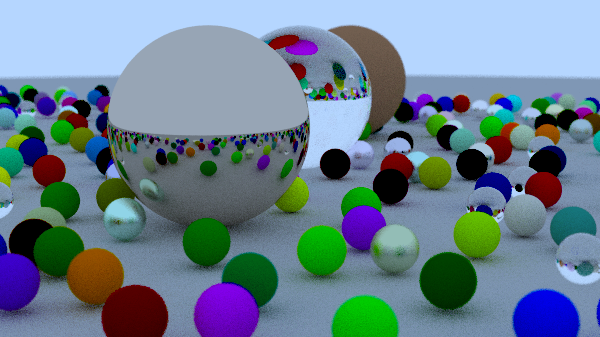
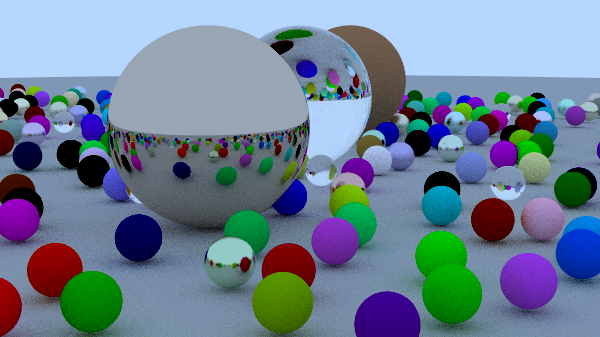
Concurrency using routines

diff --git a/camera/camera.go b/camera/camera.go
@@ -1,14 +1,17 @@
 package camera
 
 import (
+	"fmt"
+	"image"
+	"image/color"
+	"image/png"
 	"math"
+	"os"
 	"ray-tracing/hit"
 	"ray-tracing/ray"
 	"ray-tracing/utils"
 	"ray-tracing/vec"
-	"image"
-    "image/png"
-	"os"
+	"sync"
 )
 
 type Camera struct {
@@ -64,7 +67,7 @@ func (c *Camera) pixel_sample_sq() vec.Vec3 {
 	)
 }
 
-func (c *Camera) Render(world hit.HitList,file string) {
+func (c *Camera) Render(world hit.HitList, file string) {
 	upLeft := image.Point{0, 0}
 	lowRight := image.Point{c.Width, c.Height}
 
@@ -93,11 +96,158 @@ func (c *Camera) Render(world hit.HitList,file string) {
 			}
 
 			color.DivScalar(float64(c.samples_per_pixel))
-			img.Set(i,j,color.ToIntArr())
+			img.Set(i, j, color.ToIntArr())
 		}
 	}
 
-	f, _ := os.Create("out/"+ file + ".png")
+	f, _ := os.Create("out/" + file + ".png")
+	defer f.Close()
+	png.Encode(f, img)
+	print("\rCompleted 100%")
+	println("\nDone")
+}
+
+type PixelCom struct {
+	I, J  int
+	Pixel color.RGBA
+}
+
+func RenderPixel(
+	c *Camera,
+	world *hit.HitList,
+	i, j int,
+	ch chan<- PixelCom,
+	wg *sync.WaitGroup,
+) {
+	defer wg.Done()
+
+	color := vec.New(0, 0, 0)
+	pixel_center := *vec.Add(
+		c.pixel00_loc,
+		*vec.MulScalar(c.pixel_delta_u, float64(i)),
+		*vec.MulScalar(c.pixel_delta_v, float64(j)),
+	)
+	for k := 0; k < c.samples_per_pixel; k++ {
+		sample := vec.Add(pixel_center, c.pixel_sample_sq())
+		ray_origin := vec.Add(
+			c.center,
+			*vec.MulScalar(c.defocus_disk_u, utils.Rand(-.5, .5)),
+			*vec.MulScalar(c.defocus_disk_v, utils.Rand(-.5, .5)),
+		)
+		direction := vec.Sub(*sample, *ray_origin)
+		r := *ray.New(*ray_origin, *direction)
+
+		color.Add(c.ray_color(&r, *world, c.max_depth))
+	}
+
+	color.DivScalar(float64(c.samples_per_pixel))
+
+	ch <- PixelCom{
+		I:     i,
+		J:     j,
+		Pixel: color.ToIntArr(),
+	}
+}
+
+func RenderRow(
+	c *Camera,
+	world *hit.HitList,
+	j int,
+	ch chan<- PixelCom,
+	wg *sync.WaitGroup,
+) {
+	defer wg.Done()
+
+	for i := 0; i < c.Width; i++ {
+		color := vec.New(0, 0, 0)
+		pixel_center := *vec.Add(
+			c.pixel00_loc,
+			*vec.MulScalar(c.pixel_delta_u, float64(i)),
+			*vec.MulScalar(c.pixel_delta_v, float64(j)),
+		)
+		for i := 0; i < c.samples_per_pixel; i++ {
+			sample := vec.Add(pixel_center, c.pixel_sample_sq())
+			ray_origin := vec.Add(
+				c.center,
+				*vec.MulScalar(c.defocus_disk_u, utils.Rand(-.5, .5)),
+				*vec.MulScalar(c.defocus_disk_v, utils.Rand(-.5, .5)),
+			)
+			direction := vec.Sub(*sample, *ray_origin)
+			r := *ray.New(*ray_origin, *direction)
+
+			color.Add(c.ray_color(&r, *world, c.max_depth))
+		}
+
+		color.DivScalar(float64(c.samples_per_pixel))
+
+		ch <- PixelCom{
+			I:     i,
+			J:     j,
+			Pixel: color.ToIntArr(),
+		}
+	}
+}
+
+func (c *Camera) RenderAsync(world hit.HitList, file string) {
+	upLeft := image.Point{0, 0}
+	lowRight := image.Point{c.Width, c.Height}
+
+	img := image.NewRGBA(image.Rectangle{upLeft, lowRight})
+	ch := make(chan PixelCom)
+	var wg sync.WaitGroup
+
+	for j := 0; j < c.Height; j++ {
+		print("\rCompleted ", j*100/c.Height, "%")
+		for i := 0; i < c.Width; i++ {
+			wg.Add(1)
+			go RenderPixel(c, &world, i, j, ch, &wg)
+		}
+	}
+
+	go func() {
+		wg.Wait()
+		close(ch)
+	}()
+
+	for res := range ch {
+		img.Set(res.I, res.J, res.Pixel)
+	}
+
+	f, _ := os.Create("out/" + file + ".png")
+	defer f.Close()
+	png.Encode(f, img)
+	print("\rCompleted 100%")
+	println("\nDone")
+}
+
+func (c *Camera) RenderRowAsync(world hit.HitList, file string) {
+	upLeft := image.Point{0, 0}
+	lowRight := image.Point{c.Width, c.Height}
+
+	img := image.NewRGBA(image.Rectangle{upLeft, lowRight})
+	ch := make(chan PixelCom)
+	var wg sync.WaitGroup
+
+	for j := 0; j < c.Height; j++ {
+		wg.Add(1)
+		go RenderRow(c, &world, j, ch, &wg)
+	}
+
+	go func() {
+		wg.Wait()
+		close(ch)
+	}()
+
+	count:=0
+	for res := range ch {
+		if count %400==0{
+			fmt.Printf("\rCompleted %d", (count*100)/(c.Height*c.Width))
+		}
+		img.Set(res.I, res.J, res.Pixel)
+		count++
+	}
+
+	f, _ := os.Create("out/" + file + ".png")
 	defer f.Close()
 	png.Encode(f, img)
 	print("\rCompleted 100%")

diff --git a/main.go b/main.go
@@ -1,6 +1,7 @@
 package main
 
 import (
+	"fmt"
 	"math"
 	"math/rand"
 	"os"
@@ -9,6 +10,7 @@ import (
 	"ray-tracing/texture"
 	"ray-tracing/utils"
 	"ray-tracing/vec"
+	"time"
 )
 
 func TestScene() {
@@ -27,7 +29,7 @@ func TestScene() {
 	cam := camera.New(
 		400,
 		16.0/9.0,
-		20,
+		100,
 		20,
 	)
 
@@ -101,7 +103,9 @@ func AwesomeScene() {
 		*vec.New(0, 1, 0),
 	)
 	println("Rendering ", len(world.Objects), "objects")
-	cam.Render(newWorld, "awesome")
+	// cam.Render(newWorld, "awesome")
+	cam.RenderAsync(newWorld, "awesome")
+	// cam.RenderRowAsync(newWorld, "awesome")
 }
 
 func CheckerSphereScene() {
@@ -343,7 +347,7 @@ func UltimateScene() {
 		100,
 		50,
 	)
-	cam.Background=*vec.BLACK
+	cam.Background = *vec.BLACK
 	cam.Adjust(
 		40,
 		*vec.New(478, 278, -600),
@@ -351,10 +355,11 @@ func UltimateScene() {
 		*vec.New(0, 1, 0),
 	)
 
-	cam.Render(world, "ultimate")
+	cam.RenderRowAsync(world, "ultimate")
 }
 
 func main() {
+	timer:=time.Now()
 	arg := os.Args[1]
 
 	switch arg {
@@ -377,4 +382,6 @@ func main() {
 	default:
 		println("Please provide scene")
 	}
+
+	fmt.Println("Time required: ",time.Since(timer))
 }
